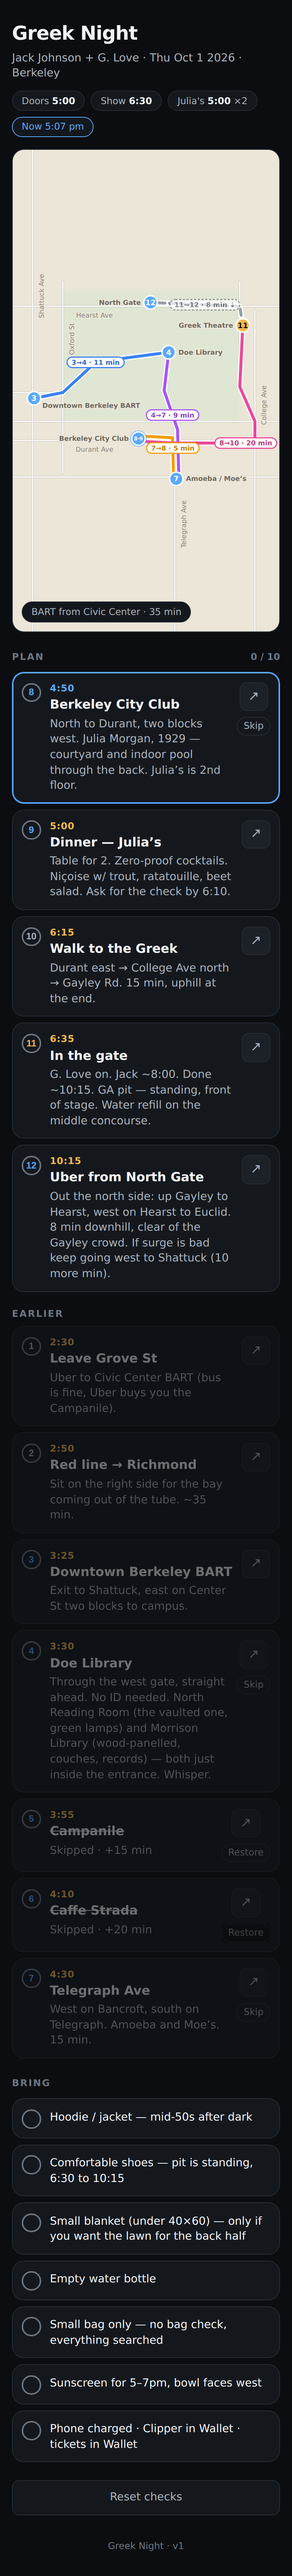
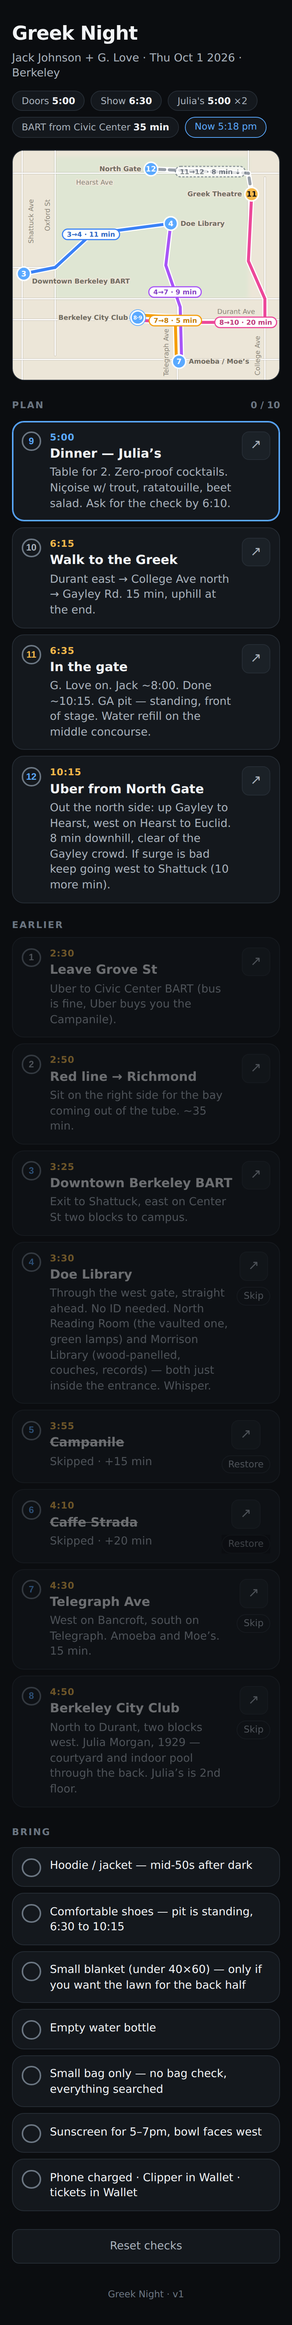
greek-night: map card sized to route
At phone widths the map card takes the route's own shape: its height
is the card width × (lat span × 1.1) / (lng span × cos lat), capped at
75vh, with no floor. The fit keeps 8% above North Gate and below
Amoeba, and the sides take up the extra tenth, so there are no empty
bands. From 768 up the sizing is unchanged.

The "BART from Civic Center" chip moves out of the map into the
header's chip row: with the map hugging the route, no corner of it is
clear of a pin. That retires the refit-above-the-chip rule and the chip
as a label obstacle.

Claude-Session: https://claude.ai/code/session_01SYEqCQ4izqiJdBAjLeUwFf

diff --git a/greek-night.html b/greek-night.html
@@ -59,14 +59,11 @@
   button{flex:1;background:var(--card);border:1px solid var(--line);color:var(--ink2);border-radius:var(--r2);padding:var(--s3);font:inherit;font-size:var(--t3)}
   footer{margin-top:var(--s6);text-align:center;color:var(--ink3);font-size:var(--t4)}
   .mapcard{position:relative;width:100%;aspect-ratio:4/3;max-height:60vh;background:var(--card);border:1px solid var(--line);border-radius:var(--r);overflow:hidden;touch-action:none}
-  /* phone widths: header + map fill the first screen and the plan starts below the fold; 4:3 stays as the minimum */
+  /* phone widths: the card takes the route's own shape (--mapH, set from its width), capped at 75vh */
   @media (max-width:767px){
-    .mapcard{aspect-ratio:auto;max-height:none;min-height:calc((100vw - 2 * var(--s4)) * .75);
-      height:calc(100vh - var(--hdr, 0px) - env(safe-area-inset-top) - var(--s4));
-      height:calc(100dvh - var(--hdr, 0px) - env(safe-area-inset-top) - var(--s4))}
+    .mapcard{aspect-ratio:auto;max-height:none;height:min(var(--mapH, 75vw), 75vh);height:min(var(--mapH, 75vw), 75dvh)}
   }
   .mapcard svg{position:absolute;inset:0;width:100%;height:100%;display:block;-webkit-user-select:none;user-select:none;-webkit-tap-highlight-color:transparent}
-  .mapchip{position:absolute;bottom:var(--s3);left:var(--s3);z-index:3;pointer-events:none}
   .gn-land{fill:#ece6d8}
   .gn-campus{fill:#dfe6d3}
   .gn-st-case{stroke:rgba(0,0,0,.10);stroke-width:3;stroke-linecap:round}
@@ -118,12 +115,12 @@
     <span class="chip">Doors <b>5:00</b></span>
     <span class="chip">Show <b>6:30</b></span>
     <span class="chip">Julia's <b>5:00</b> ×2</span>
+    <span class="chip">BART from Civic Center <b>35 min</b></span>
     <span class="chip now" id="clock"><span id="clocktime">—</span><span class="sub" id="clocksub" hidden></span></span>
   </div>
 </header>
 
 <div class="mapcard" id="mapcard">
-  <span class="chip mapchip">BART from Civic Center · 35 min</span>
   <svg id="gnmap" xmlns="http://www.w3.org/2000/svg" role="img" aria-label="Route map"></svg>
   <div class="pinpop" id="pinpop" hidden></div>
 </div>
@@ -396,7 +393,6 @@
   var cardEl = document.getElementById('mapcard');
   var svg = document.getElementById('gnmap');
   var popEl = document.getElementById('pinpop');
-  var chipEl = cardEl.querySelector('.mapchip');
   var pinEls = [], linkedRows = [];
   /* plan rows with a pin take the pin's colour for their step number */
   PLACES.forEach(function(s){ s.steps.forEach(function(k){ rowEls[k - 1].querySelector('.check').classList.add(s.greek ? 'key-acc' : 'key-now'); }); });
@@ -566,19 +562,12 @@
       var x = s.lng * K, y = -s.lat;
       minx = Math.min(minx, x); maxx = Math.max(maxx, x); miny = Math.min(miny, y); maxy = Math.max(maxy, y);
     });
-    var cr = chipEl.getBoundingClientRect(), sr = svg.getBoundingClientRect();
-    var chip = {x:cr.left - sr.left - 2, y:cr.top - sr.top - 2, w:cr.width + 4, h:cr.height + 4};
-    var sc, ox, oy;
-    function fit(fh){
-      sc = Math.min(w * 0.84 / (maxx - minx), fh * 0.84 / (maxy - miny));
-      ox = w / 2 - sc * (minx + maxx) / 2; oy = fh / 2 - sc * (miny + maxy) / 2;
-    }
+    /* 8% top and bottom; the sides may come in to 3%, since the phone card is a touch taller than the route (×1.1) */
+    var sc = Math.min(w * 0.94 / (maxx - minx), h * 0.84 / (maxy - miny));
+    var ox = w / 2 - sc * (minx + maxx) / 2, oy = h / 2 - sc * (miny + maxy) / 2;
     function P(lat, lng){ return [ox + sc * lng * K, oy - sc * lat]; }
-    /* no pin under the chip: if one lands there, fit the pins into the space above it instead */
-    fit(h);
-    if (PLACES.some(function(s){ var p = P(s.lat, s.lng); return p[0] > chip.x - 14 && p[0] < chip.x + chip.w + 14 && p[1] > chip.y - 14; })) fit(chip.y);
     if (!FIT || FIT.w !== w || FIT.h !== h) VIEW = {x:0, y:0, z:1};   /* a new size starts fitted; a rebuild (a skip) keeps the view */
-    FIT = {w:w, h:h, sc:sc, ox:ox, oy:oy, P:P, chip:chip, bottom:cr.top - sr.top - 10};   /* the edge arrow stays above the chip */
+    FIT = {w:w, h:h, sc:sc, ox:ox, oy:oy, P:P};
 
     svg.textContent = '';
     var defs = S('defs', {}, svg);
@@ -620,7 +609,7 @@
   /* the routes, pills, names and pins for the current view: placed in screen px, then anchored in user units */
   function layout(){
     if (!FIT) return;
-    var w = FIT.w, h = FIT.h, chip = FIT.chip;
+    var w = FIT.w, h = FIT.h;
     function Ps(lat, lng){ return toScreen(FIT.P(lat, lng)); }
     function onScreen(p, m){ return p[0] > -m && p[0] < w + m && p[1] > -m && p[1] < h + m; }
     gTop.textContent = '';
@@ -639,7 +628,6 @@
     var ob = {circles:[], segs:[], rects:[]};
     livePlaces().forEach(function(s){ var p = Ps(s.lat, s.lng); ob.circles.push([p[0], p[1], 12]); });
     LEGS.forEach(function(l){ for (var i = 1; i < l.draw.length; i++) ob.segs.push([l.draw[i - 1], l.draw[i]]); });
-    ob.rects.push(chip);
 
     var gp = S('g', {}, gTop);   /* pills: above both routes, under the names and pins */
     var gl = S('g', {}, gTop);
@@ -848,7 +836,7 @@
     /* off the window (still in SF, on BART, or zoomed away): an arrow on the edge pointing at the true position, with the distance to it */
     var cx = w / 2, cy = h / 2, dx = p[0] - cx, dy = p[1] - cy, t = Infinity;
     if (dx > 0) t = Math.min(t, (w - m - cx) / dx); else if (dx < 0) t = Math.min(t, (m - cx) / dx);
-    if (dy > 0) t = Math.min(t, (FIT.bottom - cy) / dy); else if (dy < 0) t = Math.min(t, (m - cy) / dy);
+    if (dy > 0) t = Math.min(t, (h - m - cy) / dy); else if (dy < 0) t = Math.min(t, (m - cy) / dy);
     var ex = cx + dx * t, ey = cy + dy * t, ang = Math.atan2(dy, dx) * 180 / Math.PI, eu = toUser([ex, ey]);
     var eLat = (FIT.oy - eu[1]) / FIT.sc, eLng = (eu[0] - FIT.ox) / (FIT.sc * K);
     var mi = metres([eLat, eLng], [fix.lat, fix.lng]) / 1609.344;
@@ -954,8 +942,12 @@
 
   /* the map card is sized from the header's height at phone widths; any change of the card's size refits the map
      and re-places the chip-aware labels */
-  var headerEl = document.querySelector('header'), rsT = null, lastW = '';
-  function sizeCard(){ document.documentElement.style.setProperty('--hdr', headerEl.offsetHeight + 'px'); }
+  var rsT = null, lastW = '';
+  function sizeCard(){   /* the route's shape, a tenth taller; CSS caps it at 75vh and ignores it from 768 up */
+    var la = PLACES.map(function(s){ return s.lat; }), lo = PLACES.map(function(s){ return s.lng; });
+    var aspect = (Math.max.apply(null, la) - Math.min.apply(null, la)) * 1.1 / ((Math.max.apply(null, lo) - Math.min.apply(null, lo)) * K);
+    cardEl.style.setProperty('--mapH', (cardEl.clientWidth * aspect).toFixed(1) + 'px');
+  }
   function resized(){
     clearTimeout(rsT);
     rsT = setTimeout(function(){
@@ -964,7 +956,7 @@
     }, 150);
   }
   window.addEventListener('resize', function(){ sizeCard(); resized(); });
-  if (window.ResizeObserver) { new ResizeObserver(sizeCard).observe(headerEl); new ResizeObserver(resized).observe(svg); }
+  if (window.ResizeObserver) new ResizeObserver(resized).observe(svg);
   sizeCard();
   buildMap(); lastW = svg.clientWidth + 'x' + svg.clientHeight;
   startWatch();
